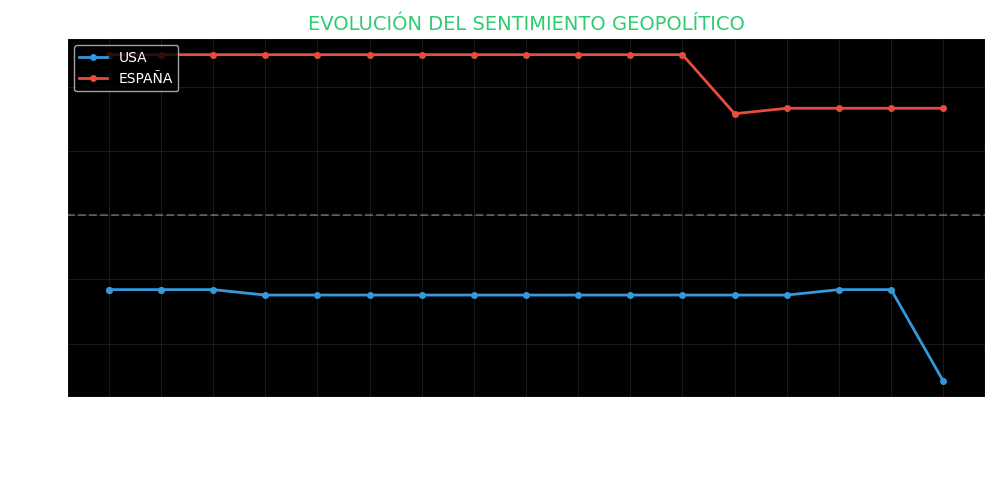
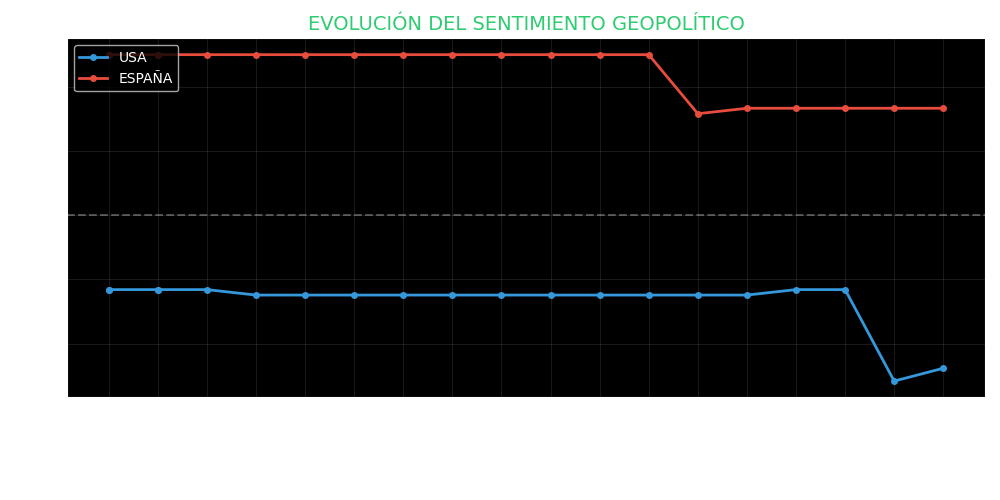
Intel Update: Informe, Gráficas y Separadores Restaurados

diff --git a/blog/content/post/2026-02-08-informe.md b/blog/content/post/2026-02-08-informe.md
@@ -1,6 +1,6 @@
 ---
-title: "Monitor Intel: 2026-02-09 04:00"
-date: 2026-02-09T04:00:01.913902+01:00
+title: "Monitor Intel: 2026-02-09 05:00"
+date: 2026-02-09T05:00:02.078046+01:00
 ---
 
 🛡 ESTADO DEL NODO
@@ -8,14 +8,14 @@ date: 2026-02-09T04:00:01.913902+01:00
 | Indicador | Valor |
 | :--- | :--- |
 | STATUS | 🟢 OPERATIVO |
-| ÚLTIMA SYNC | 2026-02-09 04:00 |
+| ÚLTIMA SYNC | 2026-02-09 05:00 |
 | HARDWARE | Odroid-C2-Madrid |
 
 📊 RADARES DE TENDENCIA
 
 | Región | Sentimiento |
 | :--- | :--- |
-| 🇺🇸 USA | -0.0517 |
+| 🇺🇸 USA | -0.0477 |
 | 🇪🇸 ESPAÑA | 0.0333 |
 
 📈 Evolución de Tendencia
@@ -24,20 +24,19 @@ date: 2026-02-09T04:00:01.913902+01:00
 
 👤 MOVIMIENTOS DE LÍDERES MUNDIALES
 
+👤 **Donald Trump**: Trump news at a glance: ‘This is going to be a free and fair election,’ says Hakeem Jeffries after Trump’s comments ([Link](https://www.theguardian.com/us-news/2026/feb/08/trump-news-at-a-glance-latest-today))  
 👤 **Donald Trump**: Democrats will stop Trump from trying to nationalize midterms, Jeffries says ([Link](https://www.theguardian.com/us-news/2026/feb/08/democrats-trump-nationalizing-midterms-hakeem-jeffries))  
 👤 **Donald Trump**: Trump’s EPA reapproves contentious weedkiller dicamba for some GM crops ([Link](https://www.theguardian.com/us-news/2026/feb/08/epa-reapproves-contentious-weedkiller-dicamba))  
 👤 **Donald Trump**: Seized, subverted, shuttered: a year in Trump’s assault on the Kennedy Center ([Link](https://www.theguardian.com/us-news/2026/feb/08/trump-kennedy-center-washington-dc))  
 👤 **Donald Trump**: Trump calls Hunter Hess ‘a real loser’ for skier’s ambivalence about representing US ([Link](https://www.theguardian.com/sport/2026/feb/08/donald-trump-hunter-hess-olympics))  
+👤 **Donald Trump**: Bad Bunny to meet political moment as Maga fumes over Super Bowl show ([Link](https://www.theguardian.com/us-news/2026/feb/08/bad-bunny-super-bowl-trump-maga))  
 👤 **Donald Trump**: NSA detected foreign intelligence phone call about a person close to Trump ([Link](https://www.theguardian.com/us-news/2026/feb/07/nsa-foreign-intelligence-trump-whistleblower))  
 👤 **Javier Milei**: Otro escándalo en una fiesta nacional: una presentadora leyó un cartel con un insulto hacia Javier Milei ([Link](https://www.clarin.com/politica/escandalo-fiesta-nacional-presentadora-leyo-cartel-insulto-javier-milei_0_ehMUPdjVas.html))  
 👤 **Javier Milei**: La relación con EE.UU.: Milei irá a Washington el 19 y canceló el viaje a Miami de esta semana ([Link](https://www.clarin.com/politica/relacion-eeuu-milei-ira-washington-19-cancelo-viaje-miami-semana_0_2T6Wakhx40.html))  
 👤 **Javier Milei**: Mariano Cúneo Libarona recordó el día que Karina Milei le frenó la renuncia y defendió la baja de la edad de imputabilidad ([Link](https://www.clarin.com/politica/mariano-cuneo-libarona-recordo-dia-karina-milei-freno-renuncia-defendio-baja-edad-imputabilidad_0_paShd5LVgY.html))  
-👤 **Donald Trump**: Bad Bunny, vencedor do Grammy e crítico de Trump, canta no Super Bowl ([Link](https://agenciabrasil.ebc.com.br/esportes/noticia/2026-02/bad-bunny-vencedor-do-grammy-e-critico-de-trump-canta-no-super-bowl))  
-👤 **Vladimir Putin**: Zelensky wants to meet with Putin to mislead Ukrainians - MP ([Link](https://tass.com/world/2083705))  
 
 ⚡ ALERTAS CRÍTICAS
 
-🚩 [ALERTA] Rusia_Eurasia]: Special military operation shows tank still indispensable in right place - Rostec ([Link](https://tass.com/defense/2083703))  
 🚩 [ALERTA] Medio_Oriente]: How has Israel’s genocidal war on Gaza shaped the Middle East? ([Link](https://www.aljazeera.com/video/inside-story/2026/2/8/how-has-israels-genocidal-war-on-gaza-shaped-the-middle-east?traffic_source=rss))  
 
 🗳 VIGILANCIA ELECTORAL
@@ -55,10 +54,10 @@ date: 2026-02-09T04:00:01.913902+01:00
 [USA_NORTE]: US companies accused of ‘AI washing’ in citing artificial intelligence for job losses ([Link](https://www.theguardian.com/us-news/2026/feb/08/ai-washing-job-losses-artificial-intelligence))  
 [USA_NORTE]: From New York to New Mexico: new Epstein files shed light on his sprawling ranch outside Santa Fe ([Link](https://www.theguardian.com/us-news/2026/feb/08/epstein-files-new-mexico-ranch))  
 [USA_NORTE]: These US states want polluters to pay for the rising insurance costs of climate disasters ([Link](https://www.theguardian.com/us-news/2026/feb/08/proposal-fossil-fuel-companies-insurance-costs))  
-[USA_NORTE]: Rightwing critics blame Mamdani as New York snow fails to melt ([Link](https://www.theguardian.com/us-news/2026/feb/08/mamdani-snow-ice-freeze-storm))  
-[USA_NORTE]: Minneapolis protesters arrested during one-month anniversary of Renee Good’s death ([Link](https://www.theguardian.com/us-news/2026/feb/07/minneapolis-protesters-arrested-renee-good))  
 [ESPAÑA]: Azcón: “No hay ningún otro partido que pueda formar Gobierno” ([Link](https://elpais.com/espana/elecciones-aragon/2026-02-08/azcon-no-hay-ningun-otro-partido-que-pueda-formar-gobierno.html))  
 [ESPAÑA]: Alquilar un piso es clasista en España ([Link](https://elpais.com/opinion/2026-02-05/alquilar-un-piso-es-clasista-en-espana.html))  
 [ESPAÑA]: El avance de la reacción no se resuelve con silencio ([Link](https://elpais.com/opinion/2026-02-05/el-avance-de-la-reaccion-no-se-resuelve-con-silencio.html))  
 [ESPAÑA]: Feijóo, al caldo y a las tajadas ([Link](https://elpais.com/opinion/2026-02-05/feijoo-al-caldo-y-a-las-tajadas.html))  
 [ESPAÑA]: Soluciones ómnibus ([Link](https://elpais.com/opinion/2026-02-01/soluciones-omnibus.html))  
+[ESPAÑA]: La gestión democrática del descontento ([Link](https://elpais.com/opinion/2026-01-26/la-gestion-democratica-del-descontento.html))  
+[ESPAÑA]: El bloque de la derecha se ensancha ([Link](https://elpais.com/espana/elecciones-aragon/2026-02-08/el-bloque-de-la-derecha-se-ensancha.html))  
